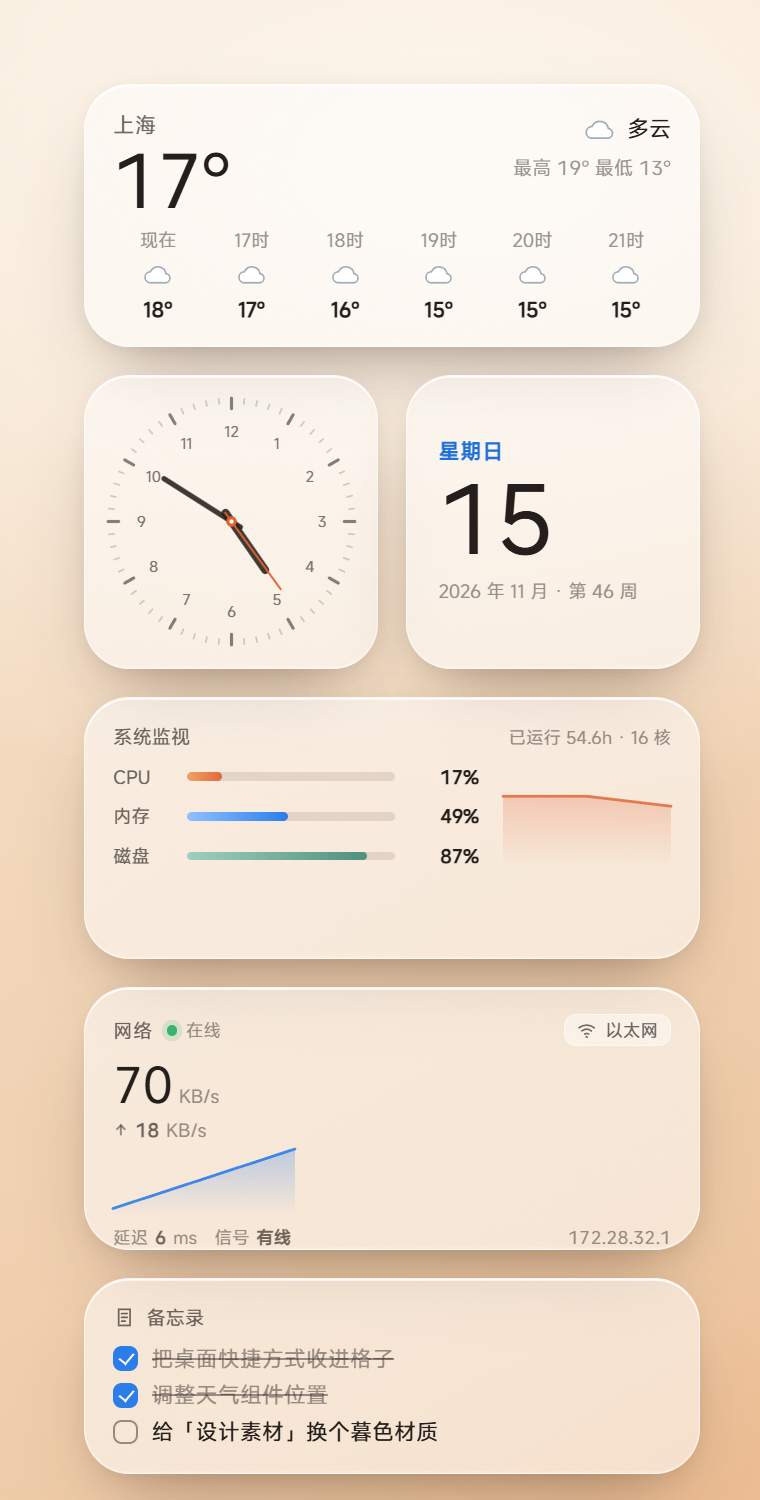
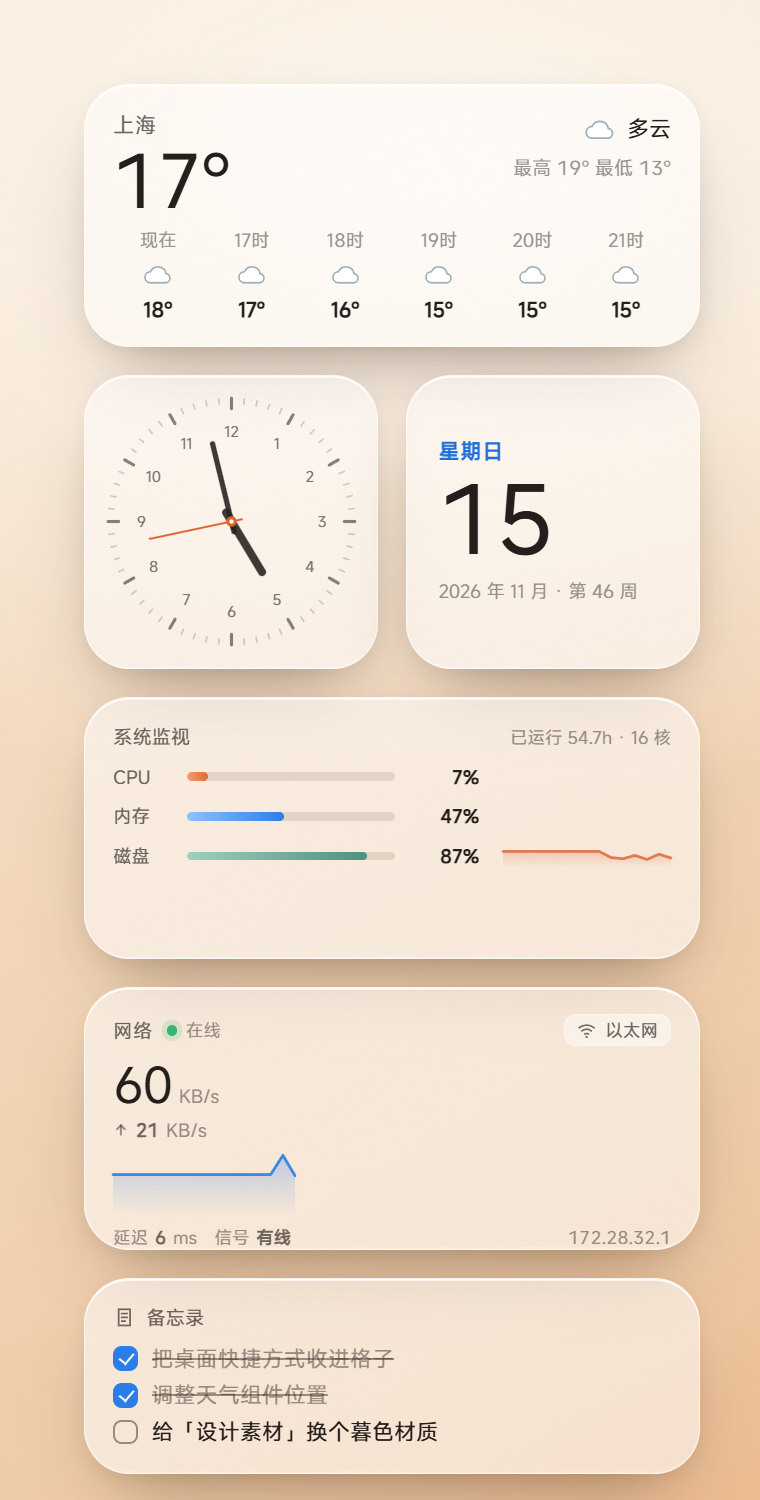
fix(ui): 修正走势图量程与首帧绘制
三个叠加的问题：

1. 数据全等时按最大值归一，曲线被顶到边框，面积图糊成一块色块；
   自适应时留 12% 顶部余量，CPU 改用固定 0-100 量程。
2. 网络速率历史把首帧的 0 也入了库，开头一段假 0 让曲线呈 L 形；
   改为只有算出真实速率才入历史，渲染层用首个真实值向左补齐。
3. 截图自检等待 2.6s 太短，历史点不够，永远拍不到有起伏的曲线，
   延长到 7s。

diff --git a/src/main/services/network.js b/src/main/services/network.js
@@ -35,8 +35,7 @@ class NetworkMonitor {
     this.speed = { down: 0, up: 0 };
     this.latency = null;
     this.latencyHistory = [];
-    // 先用 0 铺满，曲线从平线开始长；否则头两个采样点会画出一条突兀的对角线
-    this.speedHistory = new Array(HISTORY).fill(0);
+    this.speedHistory = [];
     this.wlan = null;
     this.wlanAt = 0;
     this.lastError = null;
@@ -164,6 +163,9 @@ class NetworkMonitor {
           this.speed.down = this.speed.down * (1 - a) + down * a;
           this.speed.up = this.speed.up * (1 - a) + up * a;
         }
+        // 只有算得出真实速率时才入历史，首帧的 0 不入库，避免曲线开头一段假 0
+        this.speedHistory.push(Math.round(this.speed.down));
+        if (this.speedHistory.length > HISTORY) this.speedHistory.shift();
       }
       if (counters) this.prev = { rx: counters.rx, tx: counters.tx, at: now };
 
@@ -173,8 +175,6 @@ class NetworkMonitor {
         if (this.latencyHistory.length > HISTORY) this.latencyHistory.shift();
       }
 
-      this.speedHistory.push(Math.round(this.speed.down));
-      if (this.speedHistory.length > HISTORY) this.speedHistory.shift();
 
       if (now - this.wlanAt > 12000) {
         this.wlanAt = now;

diff --git a/src/renderer/js/widgets.js b/src/renderer/js/widgets.js
@@ -165,7 +165,8 @@ export function initSystem() {
     }
     history.push(s.cpu);
     if (history.length > MAX) history.shift();
-    const { line, area } = polyline(history, 96, 44, 3);
+    // CPU 固定 0-100 量程，低负载时曲线贴近底部，不会被顶成一块色块
+    const { line, area } = polyline(history, 96, 44, 3, 100);
     if (line) {
       $('#sparkLine').setAttribute('d', line);
       $('#sparkArea').setAttribute('d', area);
@@ -232,7 +233,11 @@ export function initNetwork() {
     $('#netIp').textContent = n.ip || '无连接';
 
     // 吞吐走势
-    const { line, area } = polyline((n.downHistory || []).slice(-16), 104, 42, 4);
+    const raw = (n.downHistory || []).slice(-16);
+    // 采样点不足时用第一个真实值向左补齐，曲线从一条平线开始长
+    const series = raw.length ? Array(Math.max(0, 16 - raw.length)).fill(raw[0]).concat(raw) : [];
+    // 量程下限 32KB/s：网速很小时曲线不会贴着顶边
+    const { line, area } = polyline(series, 104, 42, 4, 32768);
     if (line) {
       $('#netLine').setAttribute('d', line);
       $('#netArea').setAttribute('d', area);

diff --git a/src/renderer/js/util.js b/src/renderer/js/util.js
@@ -58,10 +58,16 @@ export function esc(s) {
 }
 
 /** 折线 → SVG path */
-export function polyline(values, width, height, pad = 2) {
+/**
+ * 折线 → SVG path
+ * maxOverride：固定量程（如 CPU 用 0-100）。不传则按数据最大值自适应，
+ * 但全等数据会被顶到顶部变成一块方块，所以调用方最好给个下限。
+ */
+export function polyline(values, width, height, pad = 2, maxOverride) {
   // 少于两个点不成线，返回空串让调用方跳过绘制，避免出现一条斜线
   if (!values || values.length < 2) return { line: '', area: '' };
-  const max = Math.max(...values, 1);
+  // 自适应时留 12% 顶部余量，否则峰值会顶到边框
+  const max = Math.max(maxOverride || 0, Math.max(...values) * 1.12, 1);
   const step = values.length > 1 ? width / (values.length - 1) : width;
   const pts = values.map((v, i) => {
     const x = i * step;

diff --git a/src/main/main.js b/src/main/main.js
@@ -80,7 +80,7 @@ if (!app.requestSingleInstanceLock()) {
             console.error('[shot] failed', err.message);
           }
           app.quit();
-        }, 2600);
+        }, 7000);
       });
     }
   });
